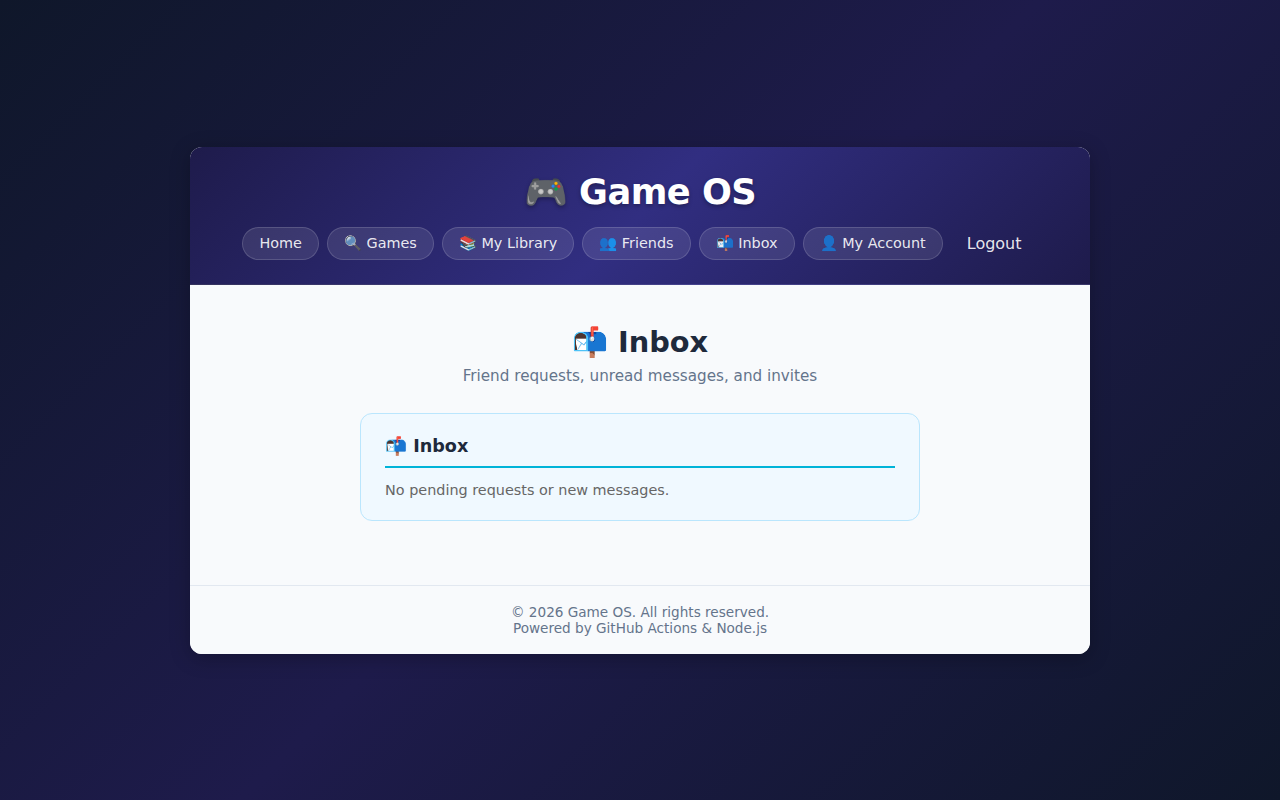
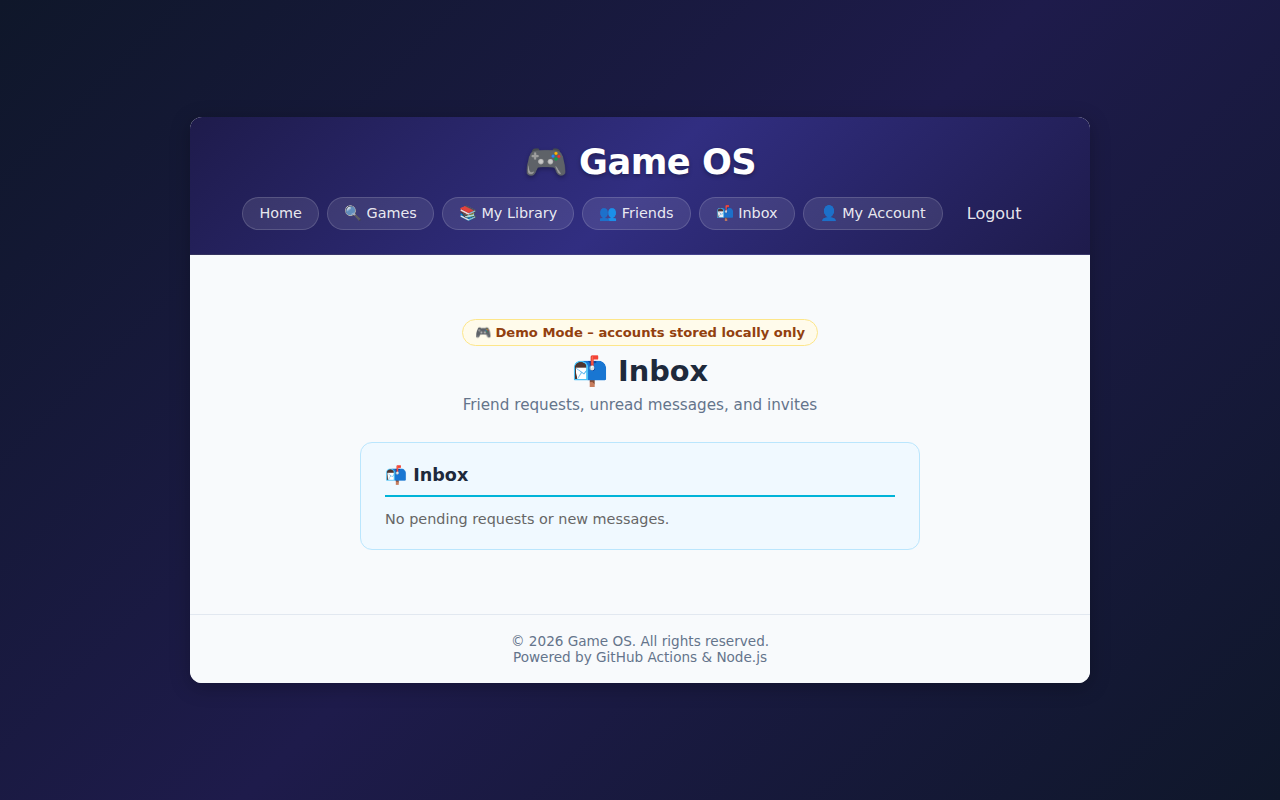
Add connectionStatus indicator to games, friends, inbox, profile pages; update screenshots

Changed region(s): [[0.125, 0.125, 0.875, 0.375], [0.125, 0.75, 0.875, 0.875], [0.2812, 0.4062, 0.6562, 0.6562]]

diff --git a/games.html b/games.html
@@ -29,6 +29,10 @@
         </header>
 
         <main style="padding:30px; background:#f8fafc;">
+            <!-- Connection Status -->
+            <div class="text-center" style="margin-bottom:16px;">
+                <div id="connectionStatus" class="status"></div>
+            </div>
             <h2 style="margin-bottom:6px;">🕹 Games</h2>
             <p style="color:#64748b;margin-bottom:20px;font-size:0.95em;">Browse games from the database and manage your library.</p>
 

diff --git a/friends.html b/friends.html
@@ -22,6 +22,10 @@
         </header>
 
         <main style="background:#f8fafc;">
+            <!-- Connection Status -->
+            <div class="text-center" style="padding-top:16px;">
+                <div id="connectionStatus" class="status"></div>
+            </div>
             <div class="form-container account-container">
                 <h2>👥 Friends</h2>
                 <p class="form-subtitle">Manage your friends and send friend requests</p>

diff --git a/inbox.html b/inbox.html
@@ -22,6 +22,10 @@
         </header>
 
         <main style="background:#f8fafc;">
+            <!-- Connection Status -->
+            <div class="text-center" style="padding-top:16px;">
+                <div id="connectionStatus" class="status"></div>
+            </div>
             <div class="form-container account-container">
                 <h2>📬 Inbox</h2>
                 <p class="form-subtitle">Friend requests, unread messages, and invites</p>

diff --git a/profile.html b/profile.html
@@ -171,6 +171,10 @@
         </header>
 
         <main style="padding:30px;">
+            <!-- Connection Status -->
+            <div class="text-center" style="margin-bottom:16px;">
+                <div id="connectionStatus" class="status"></div>
+            </div>
             <div id="profileContent">
                 <p style="color:#666;">Loading profile…</p>
             </div>
